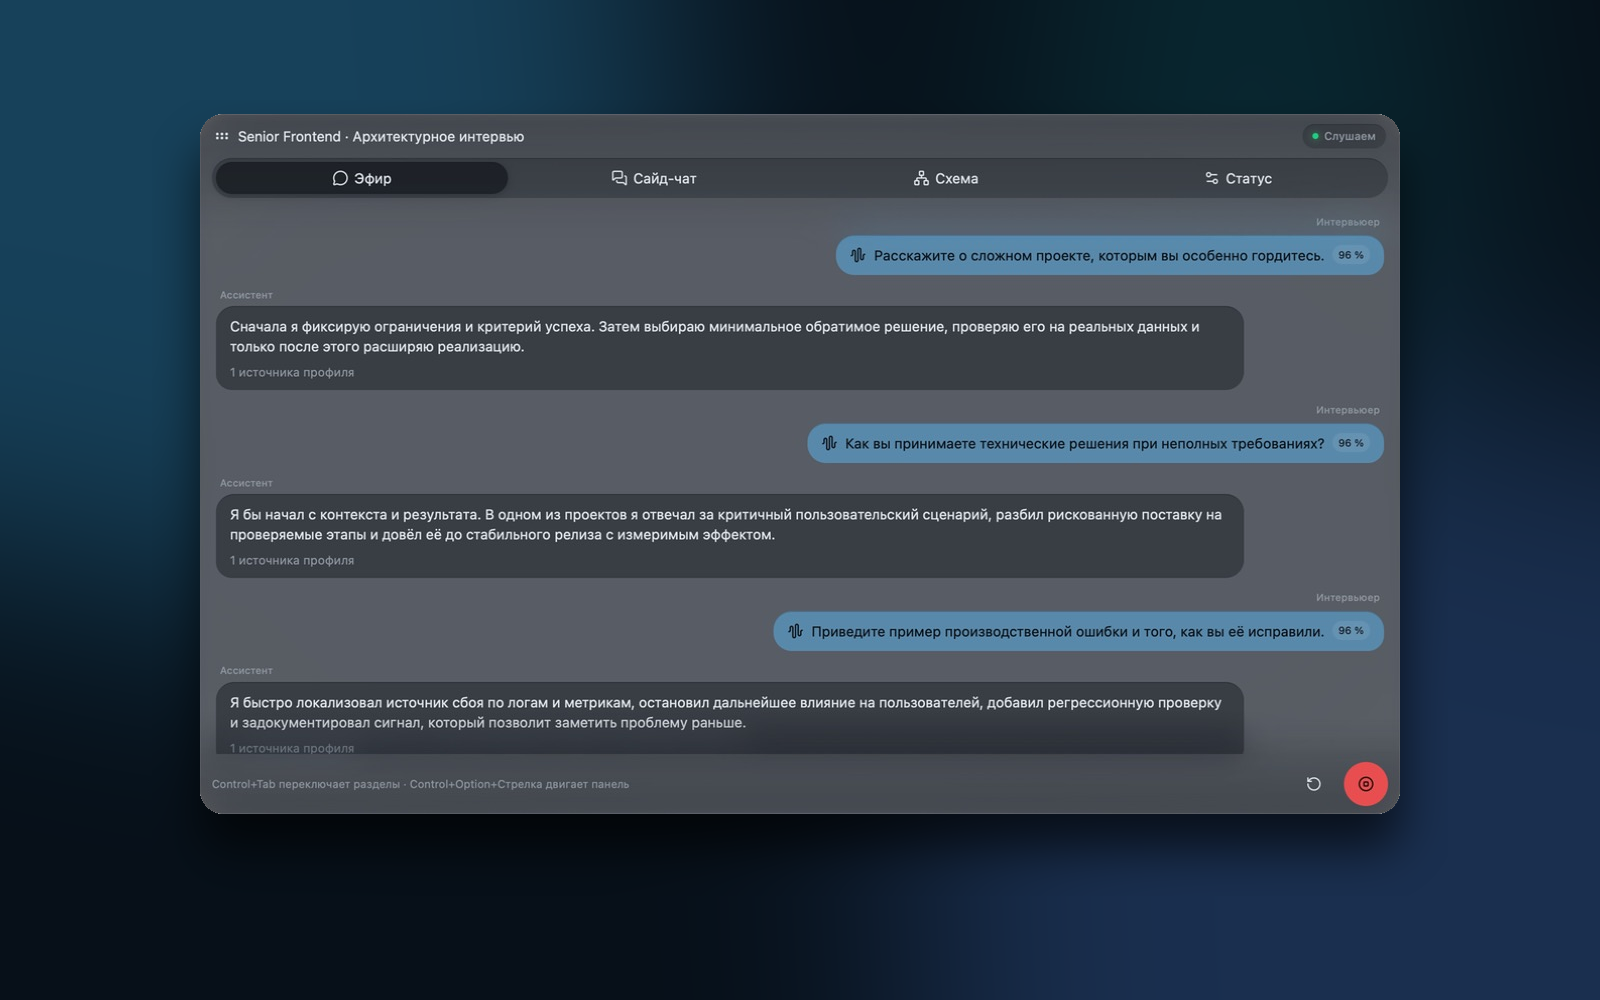
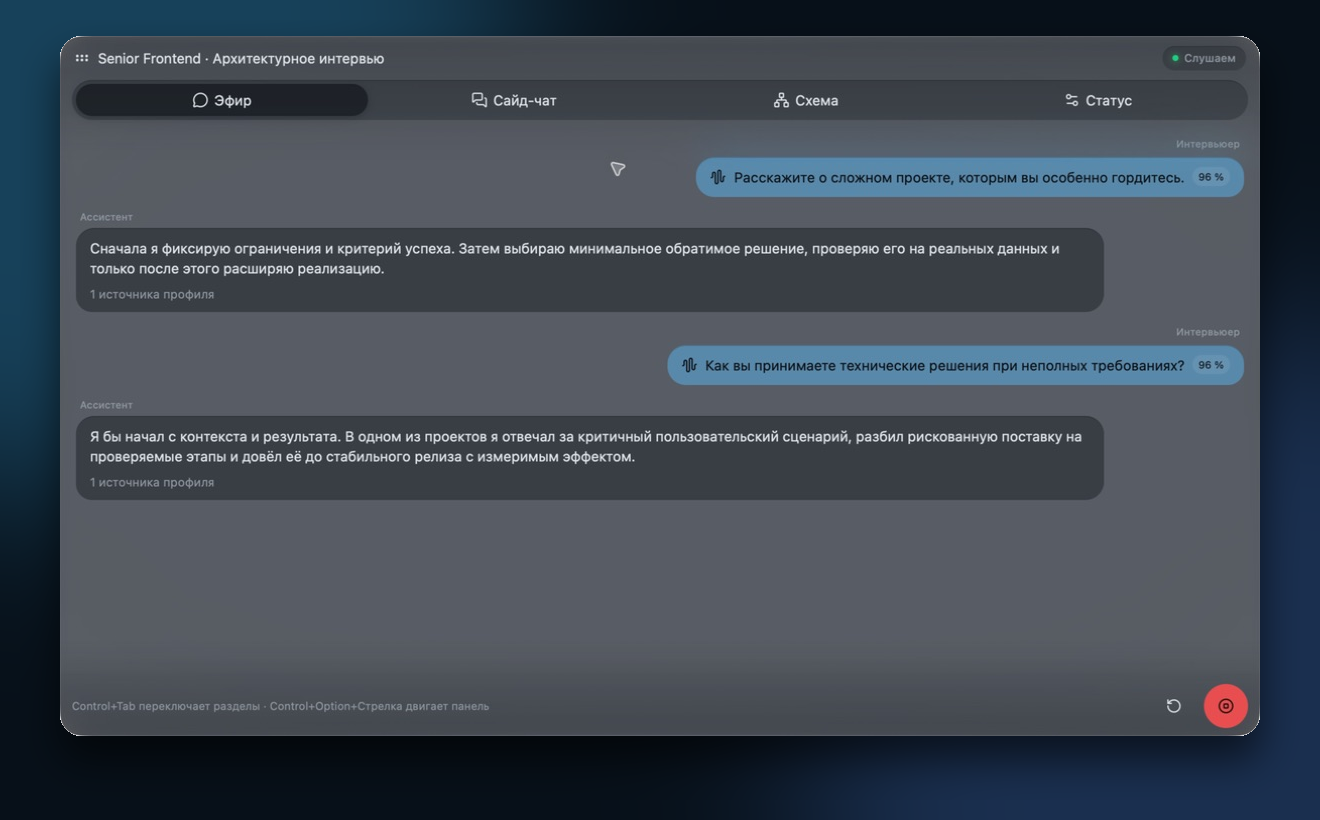
docs: refresh application screenshots

diff --git a/README.md b/README.md
@@ -8,6 +8,10 @@
 
 ![Главное окно Interview Copilot](docs/assets/interview-copilot-main.png)
 
+### Подготовка встречи
+
+![Подготовка новой встречи в Interview Copilot](docs/assets/interview-copilot-new-meeting.png)
+
 ### Оверлей во время встречи
 
 ![Оверлей Interview Copilot](docs/assets/interview-copilot-overlay.png)
